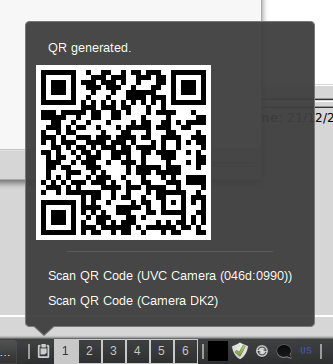
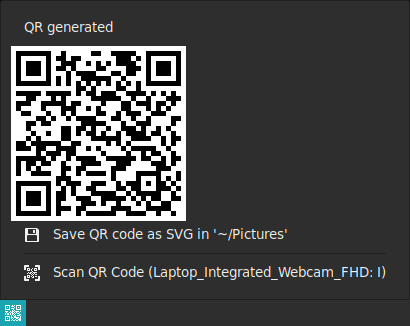
clipboard-qr@wrouesnel: add "Save QR code as SVG" entry (#3013)

diff --git a/clipboard-qr@wrouesnel/files/clipboard-qr@wrouesnel/applet.js b/clipboard-qr@wrouesnel/files/clipboard-qr@wrouesnel/applet.js
@@ -24,6 +24,10 @@ const GUdev = imports.gi.GUdev;
 
 const AppletDir = imports.ui.appletManager.appletMeta['clipboard-qr@wrouesnel'].path;
 imports.ui.searchPath.unshift(AppletDir);
+
+const PicturesDir = GLib.get_user_special_dir(GLib.UserDirectory.DIRECTORY_PICTURES);
+const PicturesName = PicturesDir.substring(PicturesDir.lastIndexOf('/') + 1);
+
 const QRLib = imports.ui.QR;
 
 const QRReaderHelper = 'clipboard-qr.py';
@@ -57,7 +61,7 @@ MyApplet.prototype = {
             this.menu = new Applet.AppletPopupMenu(this, orientation);
             this.menuManager.addMenu(this.menu);
             this.set_applet_tooltip(_("Create QR code from clipboard"));
-            this.set_applet_icon_symbolic_name('qr-symbolic');
+            this.set_applet_icon_symbolic_name('qrcode');
 
             // The QR code error string
             this._errorString = new PopupMenu.PopupMenuItem('', { reactive: false });
@@ -66,6 +70,11 @@ MyApplet.prototype = {
             // The QR code main window
             this._maincontainer = new St.BoxLayout({ style_class: 'qrappletqrcode' });
             this.menu.addActor(this._maincontainer);
+
+            // Add button to create qr-code.svg file
+            this.saveMenuItem = new PopupMenu.PopupIconMenuItem(_("Save QR code as SVG in '~/%s'").format(PicturesName), "document-save", St.IconType.SYMBOLIC);
+            this.menu.addMenuItem(this.saveMenuItem);
+            this.saveMenuItem.connect('activate', Lang.bind(this, this._onSaveMenuItemClicked));
 
             // Add a separator
             this.menu.addMenuItem(new PopupMenu.PopupSeparatorMenuItem());
@@ -88,6 +97,17 @@ MyApplet.prototype = {
         catch (e) {
             global.logError(e);
         }
+    },
+
+    _onSaveMenuItemClicked: function () {
+        let date = new Date();
+        let month = ((date.getMonth()+1)<10?'0':'') + (date.getMonth()+1);
+        let day = (date.getDate()<10?'0':'') + date.getDate();
+        let hour = (date.getHours()<10?'0':'') + date.getHours();
+        let minute = (date.getMinutes()<10?'0':'') + date.getMinutes();
+        let second = (date.getSeconds()<10?'0':'') + date.getSeconds();
+        let dateString = date.getFullYear() + "-" + month + "-" + day + "-" + hour + minute + second;
+        this._qr._create_svg(dateString);
     },
 
     _launch_qr_reader: function (camera_path) {
@@ -135,7 +155,7 @@ MyApplet.prototype = {
             let devfile = camera_devices[n].get_device_file ();
             let description = camera_devices[n].get_property('ID_V4L_PRODUCT');
 
-            let menuItem = new PopupMenu.PopupMenuItem(_("Scan QR Code") + ' (' + description +')');
+            let menuItem = new PopupMenu.PopupIconMenuItem(_("Scan QR Code") + ' (' + description +')', "qrcode-scan", St.IconType.SYMBOLIC);
 
             menuItem.connect('activate', Lang.bind(this, function (menuItem, event) {
                 this._launch_qr_reader(devfile);
@@ -165,11 +185,14 @@ MyApplet.prototype = {
                 this.menu.toggle();
             }));
         } else {
+            this.saveMenuItem.actor.hide();
             clipboard.get_text(St.ClipboardType.CLIPBOARD, Lang.bind(this,
             function(clipboard, text) {
                 this._qr.set_text(text);
                 try {
                     this._errorString.label.text = this._qr.error;
+                    if (this._qr.error == _("QR generated"))
+                        this.saveMenuItem.actor.show();
                 } catch (e) {
                     this._errorString.label.text = _("No QR code scanned.");
                 }

diff --git a/clipboard-qr@wrouesnel/files/clipboard-qr@wrouesnel/QR.js b/clipboard-qr@wrouesnel/files/clipboard-qr@wrouesnel/QR.js
@@ -7,14 +7,15 @@ const Lang = imports.lang;
 const Clutter = imports.gi.Clutter;
 const St = imports.gi.St;
 const Gio = imports.gi.Gio;
+const GLib = imports.gi.GLib;
 
 const AppletDir = imports.ui.appletManager.appletMeta['clipboard-qr@wrouesnel'].path;
+const PicturesDir = GLib.get_user_special_dir(GLib.UserDirectory.DIRECTORY_PICTURES);
 imports.ui.searchPath.unshift(AppletDir);
 const QRLibrary = imports.ui.QRLib;
 
 const QR_Blocksize = 5;
 
-const GLib = imports.gi.GLib;
 const Gettext = imports.gettext;
 const UUID = "clipboard-qr@wrouesnel";
 
@@ -40,7 +41,6 @@ QR.prototype = {
         this._qrdata = {};
         this.error = '';
         this.actor.connect('repaint', Lang.bind(this, this._draw));
-        this.svgPath = AppletDir + "/qr-code.svg";
     },
     _draw: function() {
         let [width, height] = this.actor.get_surface_size();
@@ -68,8 +68,6 @@ QR.prototype = {
             }
         }
         this.actor.show();
-
-        this._create_svg(this._qrdata)
     },
     _resize: function(size) {
         this.size = size;
@@ -79,7 +77,7 @@ QR.prototype = {
     set_text: function(text) {
         try {
             this._qrdata = QRLibrary.qr_generate(text, {});
-            this.error = _("QR generated.");
+            this.error = _("QR generated");
             this._resize((this._qrdata.length + 2) * QR_Blocksize);
         }
         catch (e) {
@@ -88,11 +86,14 @@ QR.prototype = {
             this._resize(0);
         }
     },
-    _create_svg: function(qrmatrix) {
-        let length = qrmatrix.length;
+    _create_svg: function(suffix) {
+        if (!this._qrdata)
+            return;
+
+        let length = this._qrdata.length;
         let height = length+2
 
-        let svgFile = Gio.File.new_for_path(this.svgPath)
+        let svgFile = Gio.File.new_for_path(PicturesDir + '/qrcode-' + suffix + '.svg')
         if (svgFile.query_exists(null))
             svgFile.delete(null);
         let readwrite = svgFile.create_readwrite(Gio.FileCreateFlags.NONE, null);
@@ -103,8 +104,8 @@ QR.prototype = {
 
         for (let i = 0; i < length; ++i) {
             for (let j = 0; j < length; ++j) {
-                if(qrmatrix[i][j])
-                    writeFile.write('  <rect width="1" height="1" x="'+ (i+1) +'" y="' + (j+1) + '" fill="#000000" />\n', null);
+                if(this._qrdata[i][j])
+                    writeFile.write('  <rect width="1" height="1" x="'+ (j+1) +'" y="' + (i+1) + '" fill="#000000" />\n', null);
             }
         }
         writeFile.write('</svg>', null)
